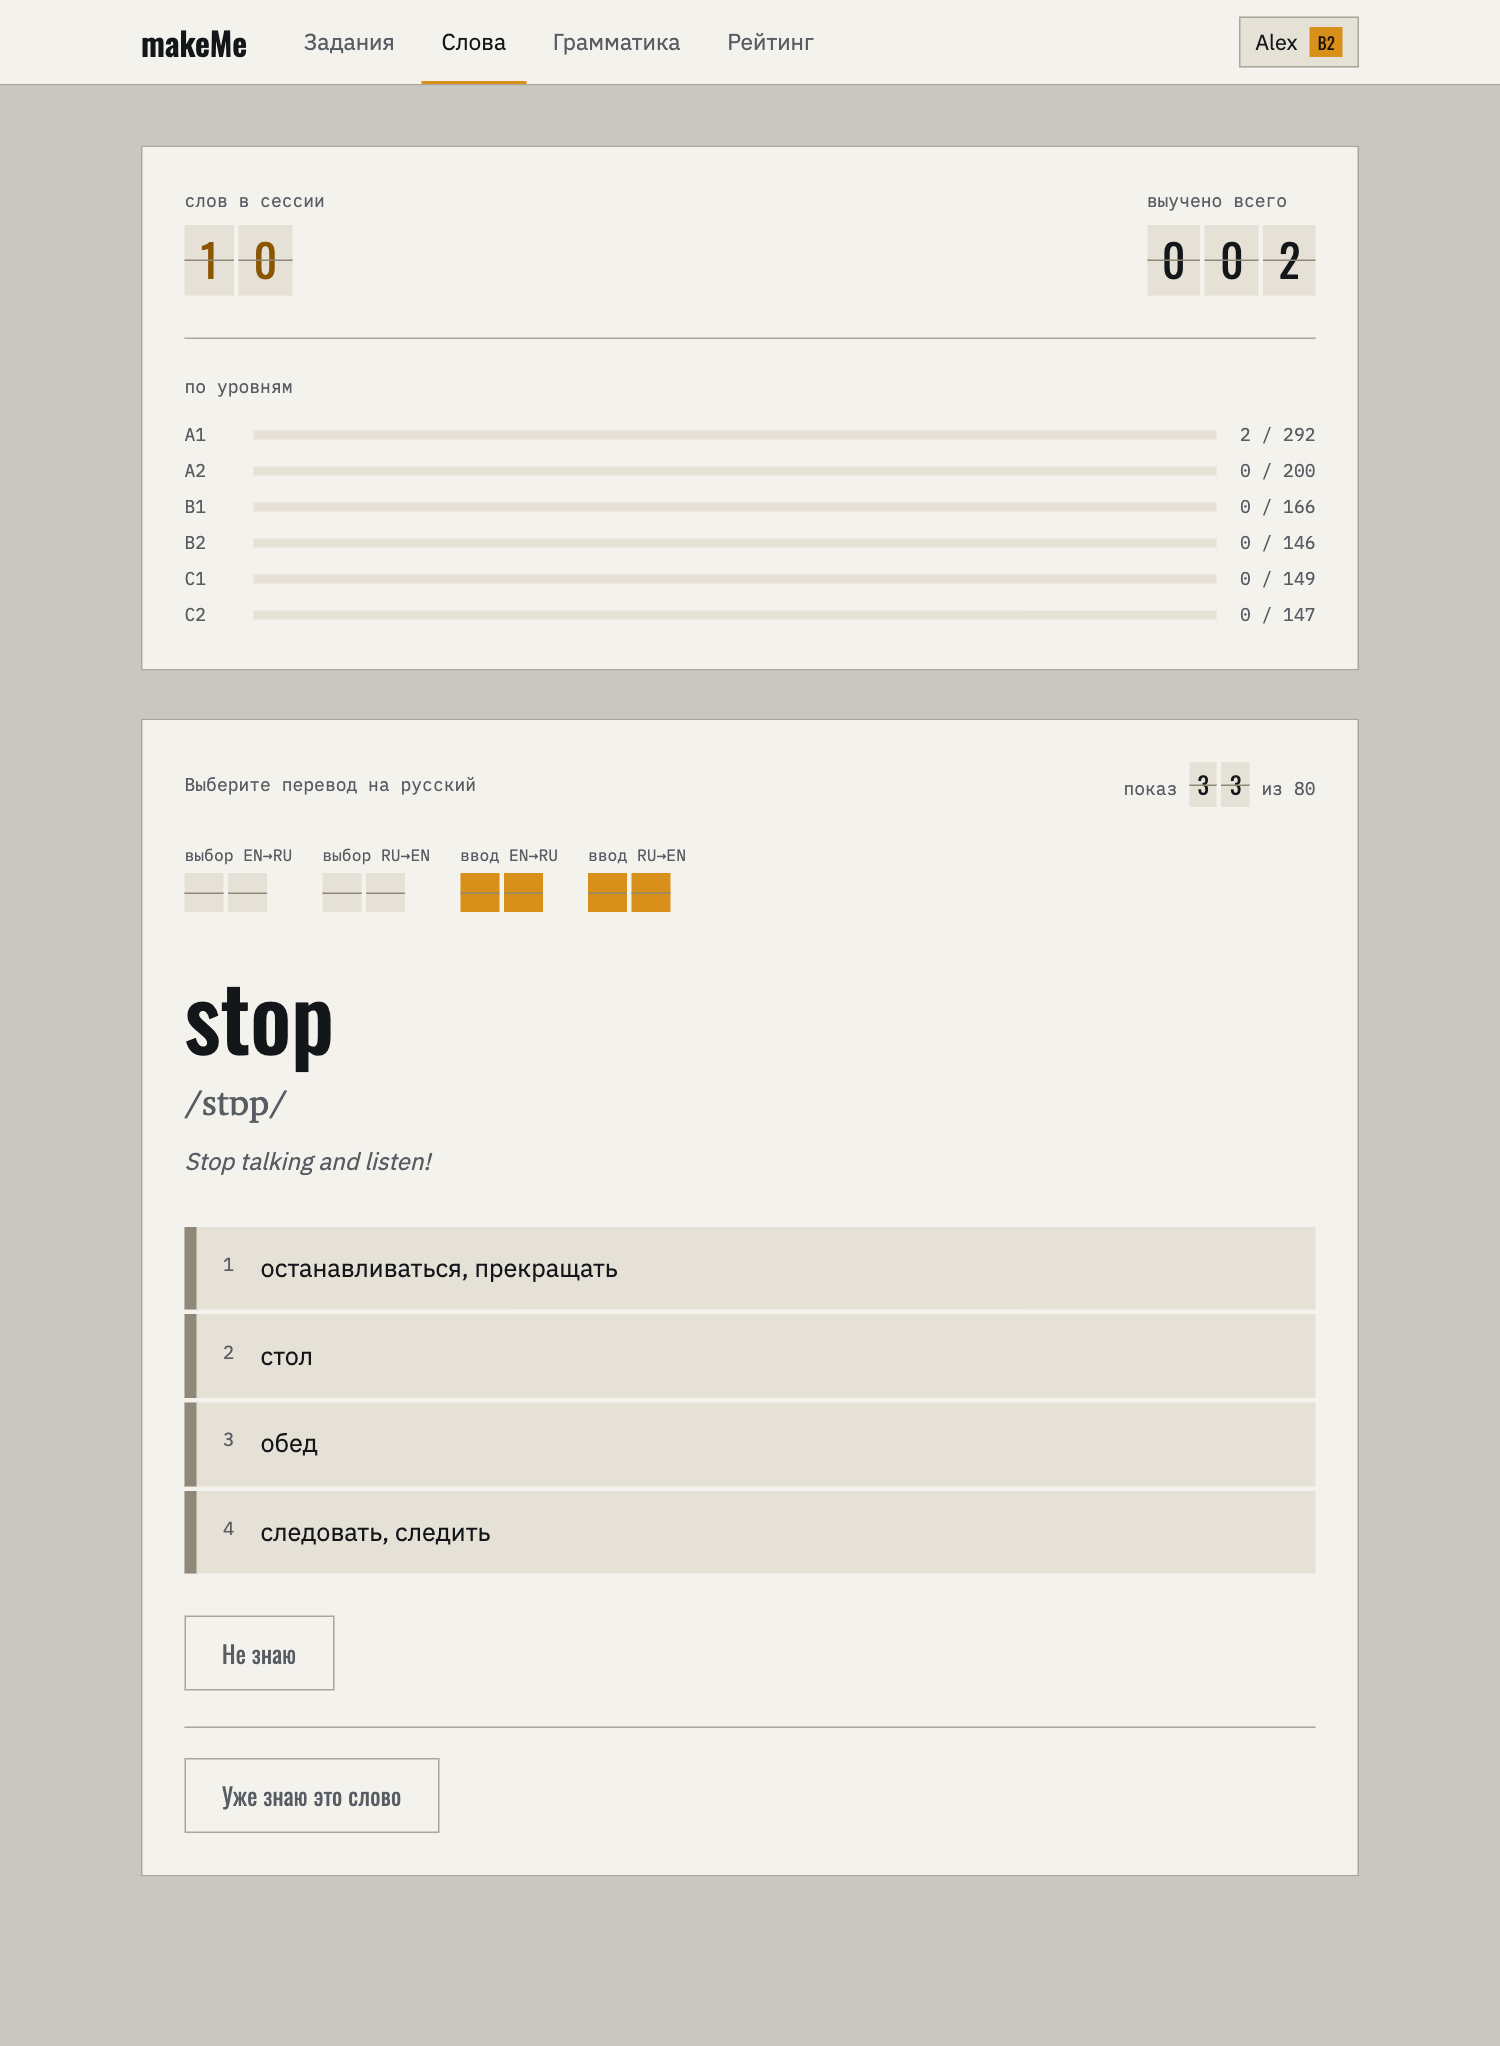
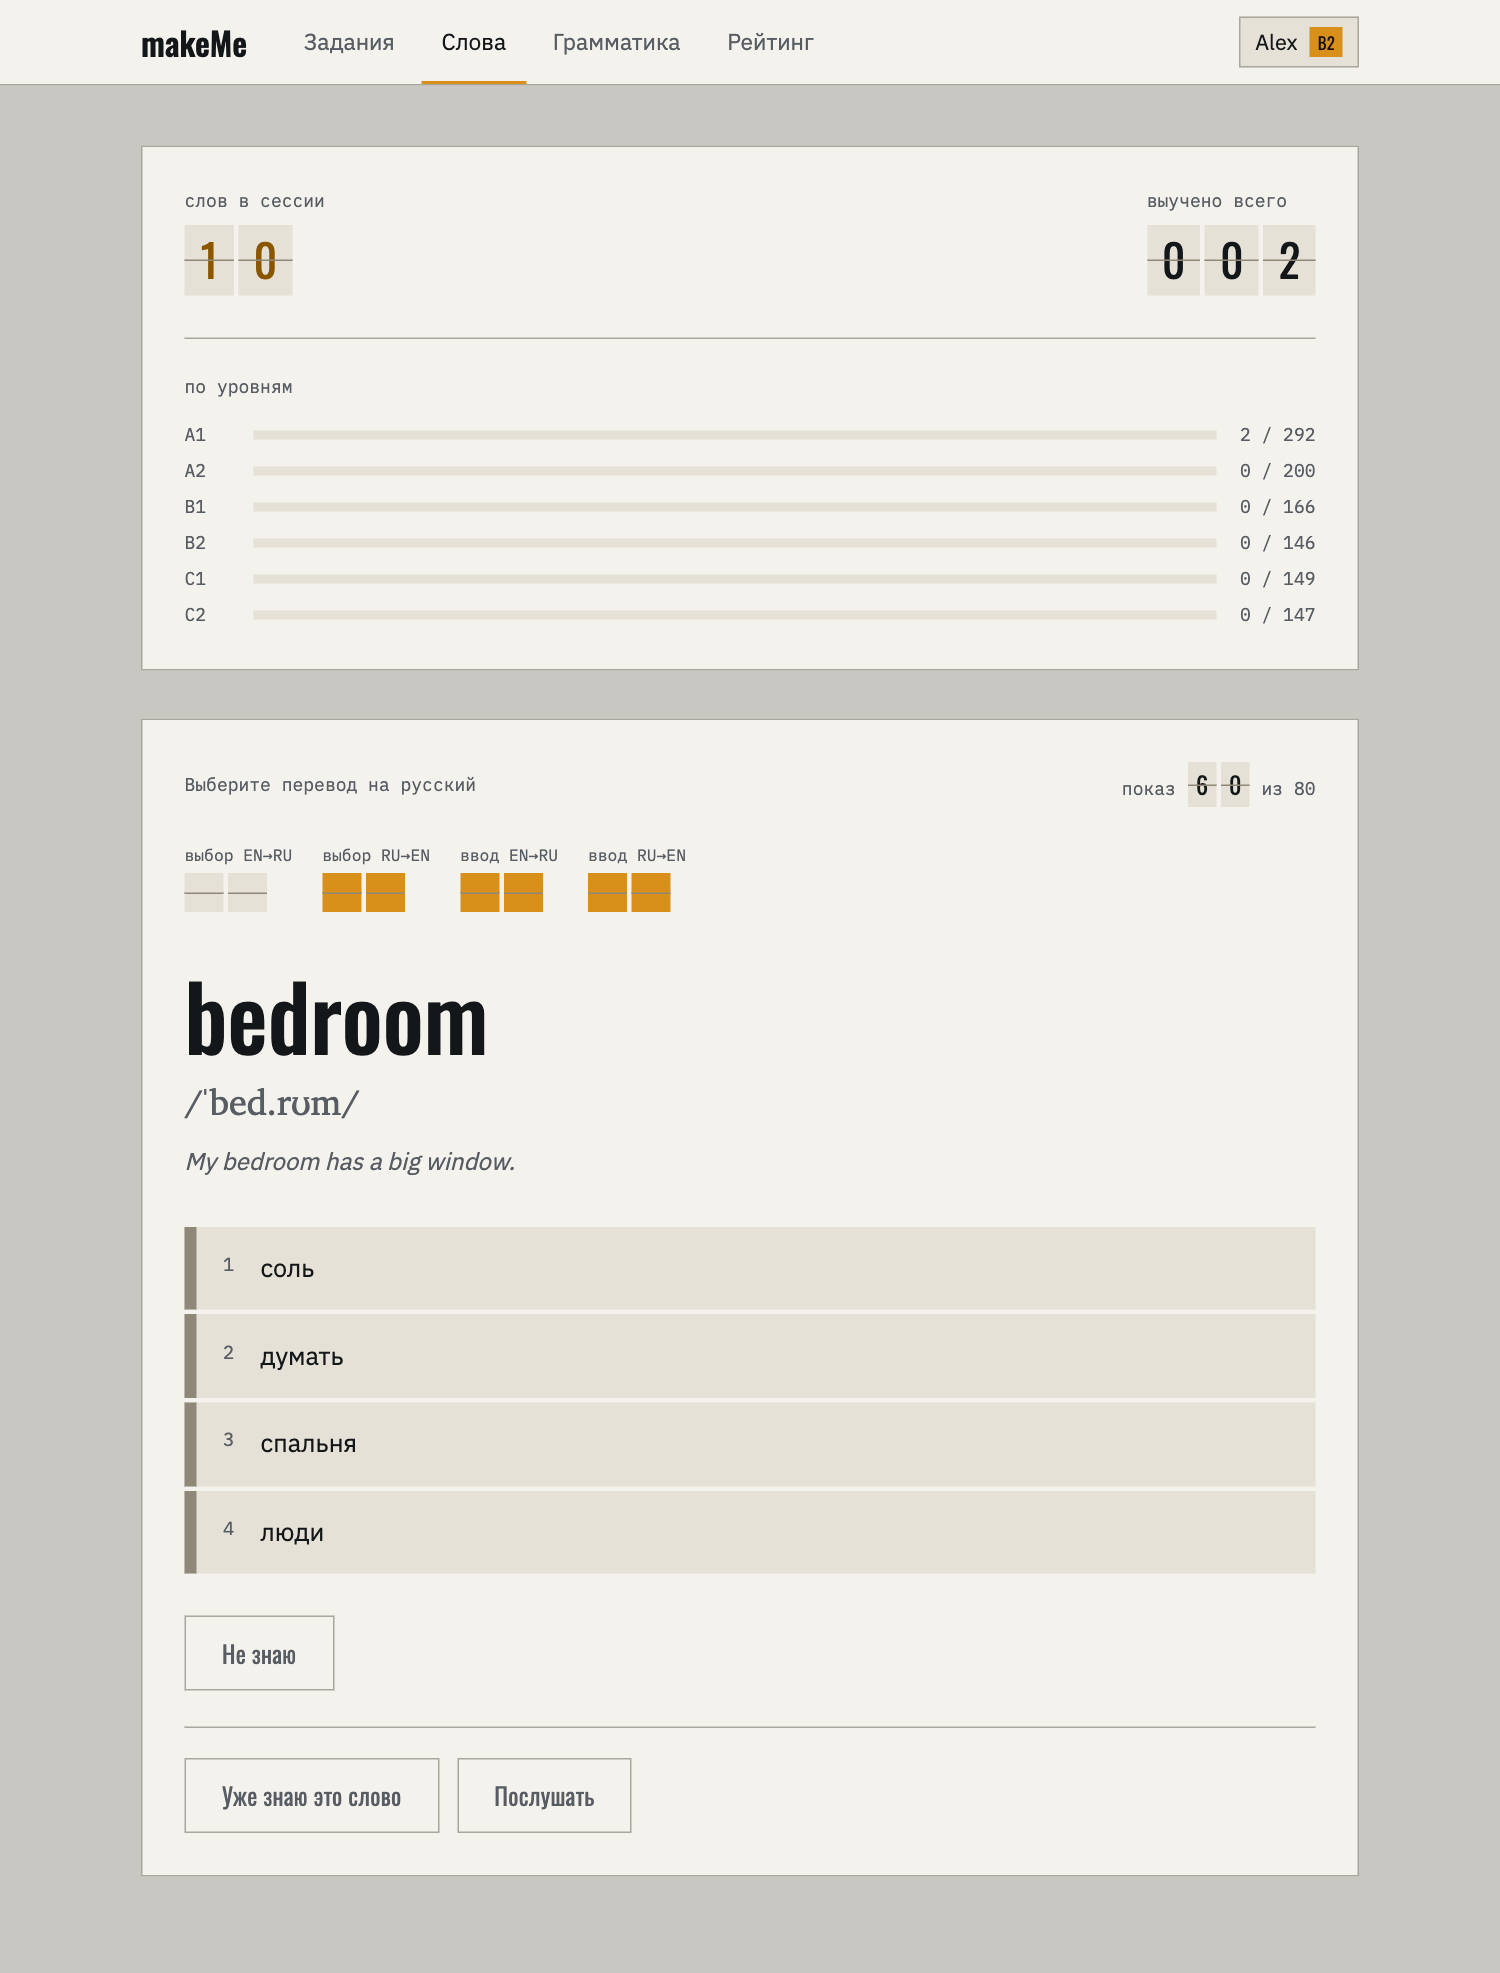
Retake the task feedback and words drill screenshots

diff --git a/docs/plan.md b/docs/plan.md
@@ -2,7 +2,7 @@
 
 ## Реализованные фичи (changelog)
 
-- [DONE] **`CLAUDE.md` → `AGENTS.md`, документация сверена с кодом.** Правила для агентов переехали в `AGENTS.md` и написаны нейтрально к агенту; `CLAUDE.md` — одна строка `@AGENTS.md`, потому что Claude Code сам читает только его. В `AGENTS.md` исправлено неверное: `go-telegram/ui` в проекте не используется; фаза 9 сделана частично, а не «готовы фазы 1–10.6»; веб не подтягивает аудио из API, бот без аудио отвечает «Произношение для «…» не найдено.», а CSP допускает `media-src https:` для mp3; интеграционные тесты есть и в `internal/web`. Добавлены правила: формат теории в `data/grammar_categories.json` и что ловит, а чего не ловит `TestParseRuleKeepsEveryShippedExplanation`; следующий слот в фидбэке и `PeekNextSlot`, который не закрывает сессию; правило после ответа и `show_rule_on_correct`; одно экранирование промпта (домен экранирует под Telegram, веб снимает); sqlc (`make install-tools`, `make sqlc`; сгенерированный код из `83dc3ce` написан вручную, `sqlc@v1.30.0 diff` пуст); веб в статусе проекта; внутрипроцессный хаб в известных ограничениях. `docs/database.md`: таблица `scores` описана по миграции (`period`/`period_key` вместо `date`), добавлены `assessment_answers.skipped`, `UNIQUE(english, level)` и `ON DELETE CASCADE`. `docs/web-ui.md`: маршруты `/learn/next`, `/leaderboard/table`, `/ws` и своя 404. `docs/development.md`: тесты `internal/web` и colima, `make css-check`, проверка sqlc без установки. 404 у записей Free Dictionary везде описан как проверка curl от 2026-11-27, а не как постоянный факт.
+- [DONE] **`CLAUDE.md` → `AGENTS.md`, документация сверена с кодом.** Правила для агентов переехали в `AGENTS.md` и написаны нейтрально к агенту; `CLAUDE.md` — одна строка `@AGENTS.md`, потому что Claude Code сам читает только его. В `AGENTS.md` исправлено неверное: `go-telegram/ui` в проекте не используется; фаза 9 сделана частично, а не «готовы фазы 1–10.6»; веб не подтягивает аудио из API, бот без аудио отвечает «Произношение для «…» не найдено.», а CSP допускает `media-src https:` для mp3; интеграционные тесты есть и в `internal/web`. Добавлены правила: формат теории в `data/grammar_categories.json` и что ловит, а чего не ловит `TestParseRuleKeepsEveryShippedExplanation`; следующий слот в фидбэке и `PeekNextSlot`, который не закрывает сессию; правило после ответа и `show_rule_on_correct`; одно экранирование промпта (домен экранирует под Telegram, веб снимает); sqlc (`make install-tools`, `make sqlc`; сгенерированный код из `83dc3ce` написан вручную, `sqlc@v1.30.0 diff` пуст); веб в статусе проекта; внутрипроцессный хаб в известных ограничениях. `docs/database.md`: таблица `scores` описана по миграции (`period`/`period_key` вместо `date`), добавлены `assessment_answers.skipped`, `UNIQUE(english, level)` и `ON DELETE CASCADE`. `docs/web-ui.md`: маршруты `/learn/next`, `/leaderboard/table`, `/ws` и своя 404. `docs/development.md`: тесты `internal/web` и colima, `make css-check`, проверка sqlc без установки. 404 у записей Free Dictionary везде описан как проверка curl от 2026-11-27, а не как постоянный факт. Скриншоты `tasks-feedback-*` (правило теперь блоками) и `words-drill-*` (кнопка «Послушать» без `audio_url`) пересняты в обеих темах на демо-данных, ширина 1500 px как у прежних, высота по содержимому (2129 и 1973 px вместо 1656 и 2046).
 
 - [DONE] **Веб: блок со строкой-подписью получает заголовок раздела.** В части тем блок открывается не заголовком, а строкой вида «Present Simple: don't / doesn't + V». Раньше подпись шла мелким серым шрифтом над текстом, теперь `parseRule` кладёт такую строку в `ruleSection.Caption`: подпись рисуется тем же янтарным заголовком, что «Форма» и «Примеры», а то, что после двоеточия, — строкой сразу под ним тем же янтарным акцентом, но шрифтом текста (бывает длиной в предложение — «Подсказка: …»). Пример или ошибка после подписи остаются в своих цветах. Подписью считается только первая строка блока без «•»; пункты списка с подписью («• После глагола: …») не изменились. По всем темам таких блоков 83; проверка без потерь текста по-прежнему проходит.
 
